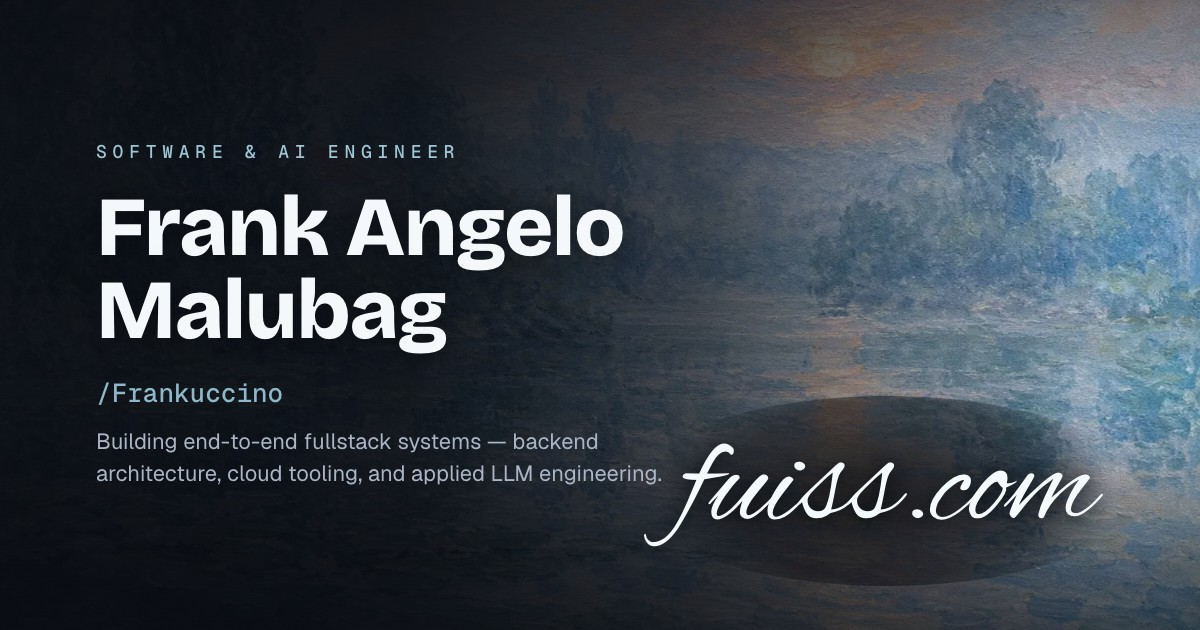
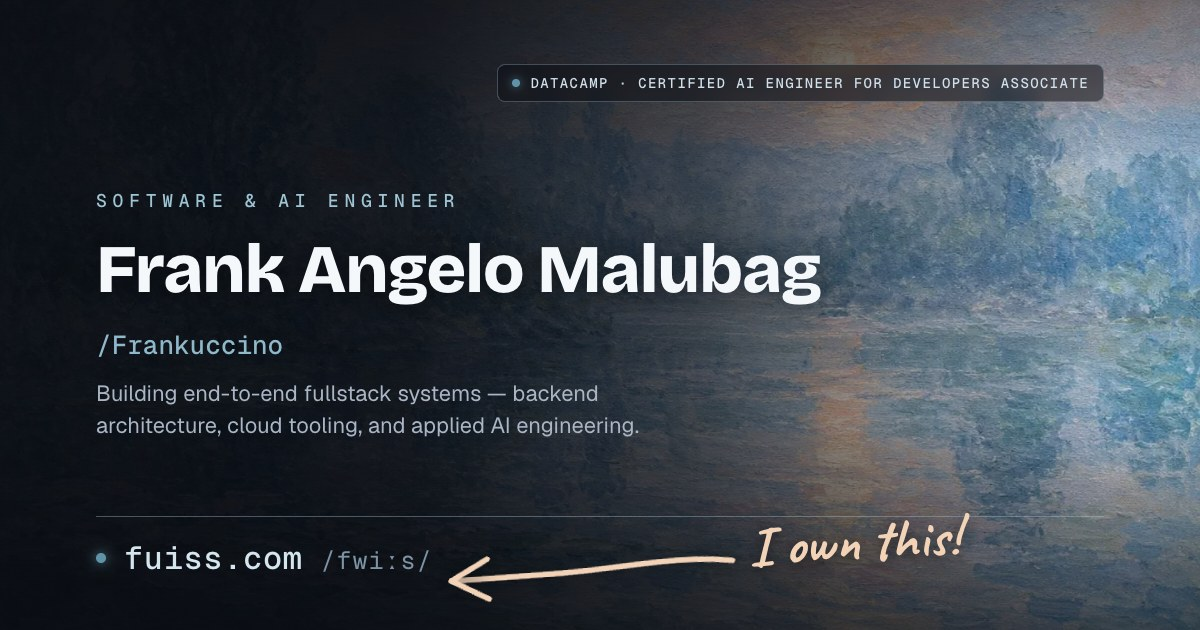
fix: ship the current share card and keep its generator
og-image.jpg was a static JPEG last written before the arrow, credential tag, IPA and palette changes, and nothing regenerated it. Render the current card, move the template to scripts/og-card-src.html so it is the generator rather than a scratch file, drop the variant PNGs and the preview page, and correct the README's stale description of the card.

diff --git a/scripts/og-card-src.html b/scripts/og-card-src.html
@@ -1,8 +1,8 @@
 <!doctype html>
-<!-- Throwaway template: rendered by the headless browser at 1200x630 and
-     captured to public/og-image.jpg. Deleted after the capture.
-     body[data-v] selects the domain treatment so several variants can be
-     captured from one file. -->
+<!-- The share card's source. Render at 1200x630 and capture to
+     public/og-image.jpg; that file is static and only changes when this is
+     re-rendered, so treat this as the generator and not a scratch file.
+     body[data-v] selects the domain treatment for experimentation. -->
 <html>
   <head>
     <meta charset="utf-8" />

diff --git a/README.md b/README.md
@@ -30,7 +30,8 @@ Welcome to the repository for my personal developer portfolio, built with **Next
 │   ├── reading/
 │   │   └── page.tsx
 │   ├── not-found.tsx                # 404 — "record not found"
-│   ├── icon.tsx                     # app/icon → <link rel="icon">
+│   ├── icon.png                     # 48×48 favicon → <link rel="icon">
+│   ├── apple-icon.png               # 180×180 touch icon
 │   ├── components/
 │   │   ├── Navbar.tsx
 │   │   ├── Hero.tsx
@@ -70,10 +71,14 @@ Welcome to the repository for my personal developer portfolio, built with **Next
 │       └── covers.ts
 ├── content/
 │   └── posts/
+├── scripts/
+│   └── og-card-src.html         # generator for public/og-image.jpg
 ├── public/
 │   ├── certificates/            # certificate artwork for the showcase
 │   ├── badges/                  # digital badges and passes
-│   └── og-image.jpg              # 1200×630 social-share card
+│   ├── footer-monet.webp        # the painting under the footer and the share card
+│   ├── favicon.ico              # 16/32/48 layered
+│   └── og-image.jpg             # 1200×630 social-share card
 └── README.md
 ```
 
@@ -113,7 +118,9 @@ The reveal adds `is-off` on mount and removes it once the name is *fully* on scr
 
 ## SEO & Social Preview
 
-The root layout sets `metadataBase` from `NEXT_PUBLIC_SITE_URL` (falling back to `https://localhost:3000` in development) and emits a `summary_large_image` Twitter card alongside the Open Graph tags, all pointing at `public/og-image.jpg` (1200×630). The card is art-directed on the footer's Monet painting (`public/footer-monet.webp`) under a left-to-right scrim, with the name in Bricolage Grotesque 800 and `fuiss.com` set as an Alex Brush signature over the water; it is a JPEG because a photographic background as PNG costs six times the bytes for no visible gain. `app/lib/siteUrl.ts` is the single source for that origin; it upgrades any `http://` scheme to `https://` because X refuses insecure card images. `app/sitemap.ts` lists the static routes plus every blog post; `app/robots.ts` points crawlers at it. Copy `.env.example` to `.env.local` and set the real origin for production.
+The root layout sets `metadataBase` from `NEXT_PUBLIC_SITE_URL` (falling back to `https://localhost:3000` in development) and emits a `summary_large_image` Twitter card alongside the Open Graph tags, all pointing at `public/og-image.jpg` (1200×630). The card is art-directed on the footer's Monet painting (`public/footer-monet.webp`) under a left-to-right scrim: eyebrow, name in Bricolage Grotesque 800, `/Frankuccino`, the bio, a mono credential tag in the upper right, and a footer rule carrying `fuiss.com /fwiːs/` with the "I own this!" hand-drawn arrow. It is a JPEG because a photographic background as PNG costs six times the bytes for no visible gain.
+
+`public/og-image.jpg` is a **static artefact and nothing regenerates it**. `scripts/og-card-src.html` is the generator: open it at 1200×630, capture, and overwrite the JPEG. A redesign that skips that step ships a stale card. `app/lib/siteUrl.ts` is the single source for the origin; it upgrades any `http://` scheme to `https://` because X refuses insecure card images. `app/sitemap.ts` lists the static routes plus every blog post; `app/robots.ts` points crawlers at it. Copy `.env.example` to `.env.local` and set the real origin for production.
 
 Every routable page declares `alternates.canonical` through the `canonical()` helper, and the blog post template sets its own `openGraph`/`twitter` block (`type: "article"`, `publishedTime`, tags) so a shared post carries its own title and excerpt rather than the site's. The root layout also emits a schema.org `Person` record whose `sameAs` links the site to the GitHub and LinkedIn profiles — that is what lets a search engine treat them as one entity.
 
